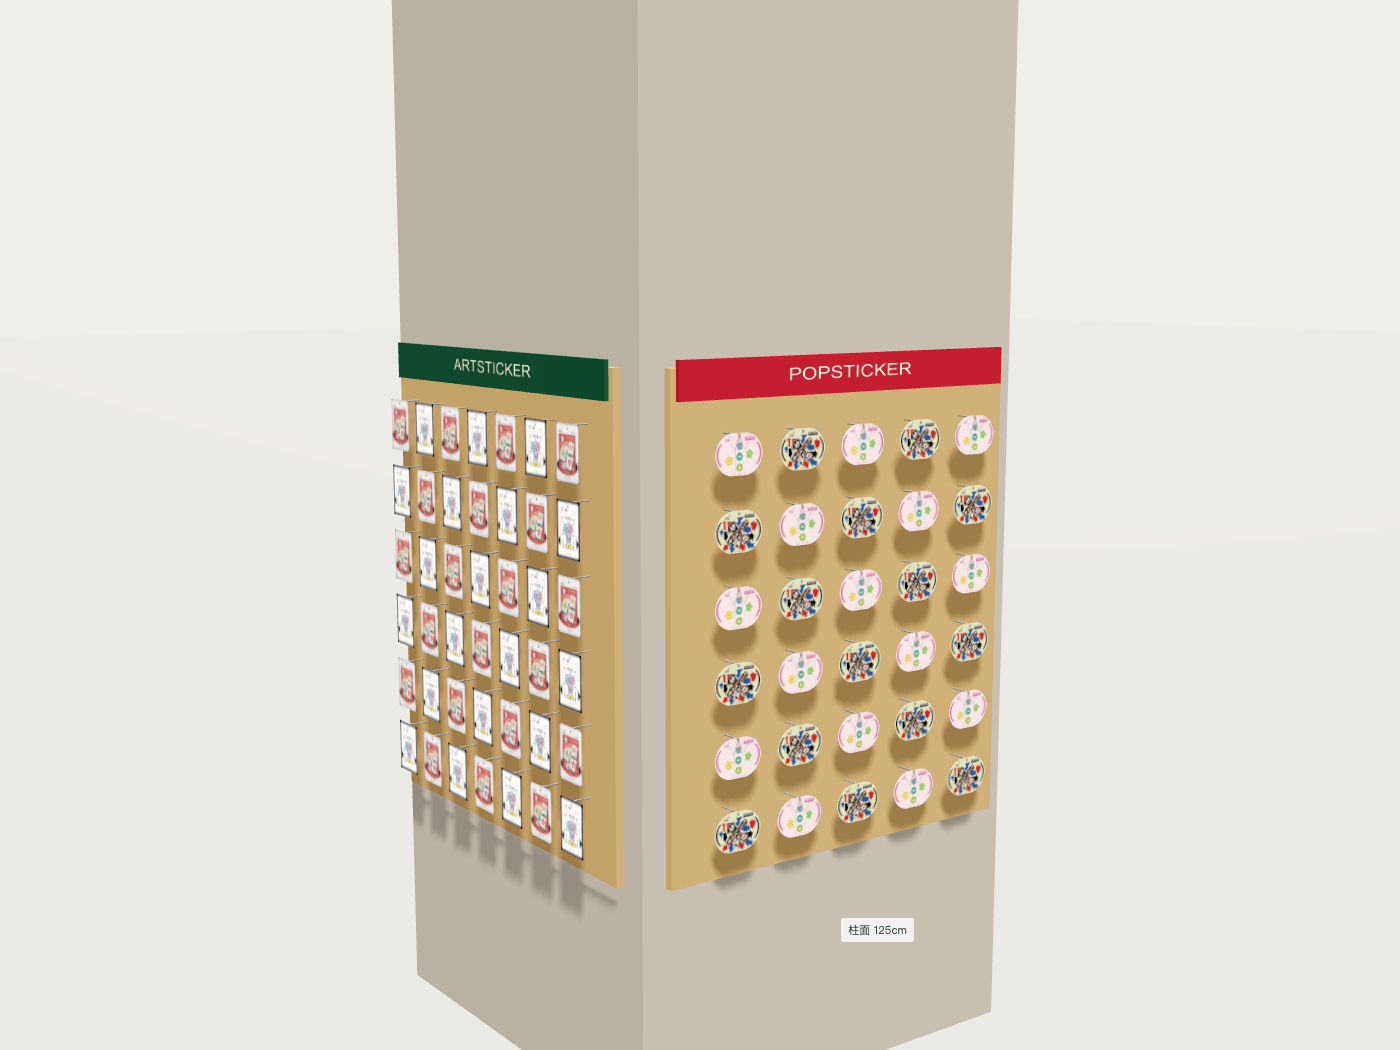
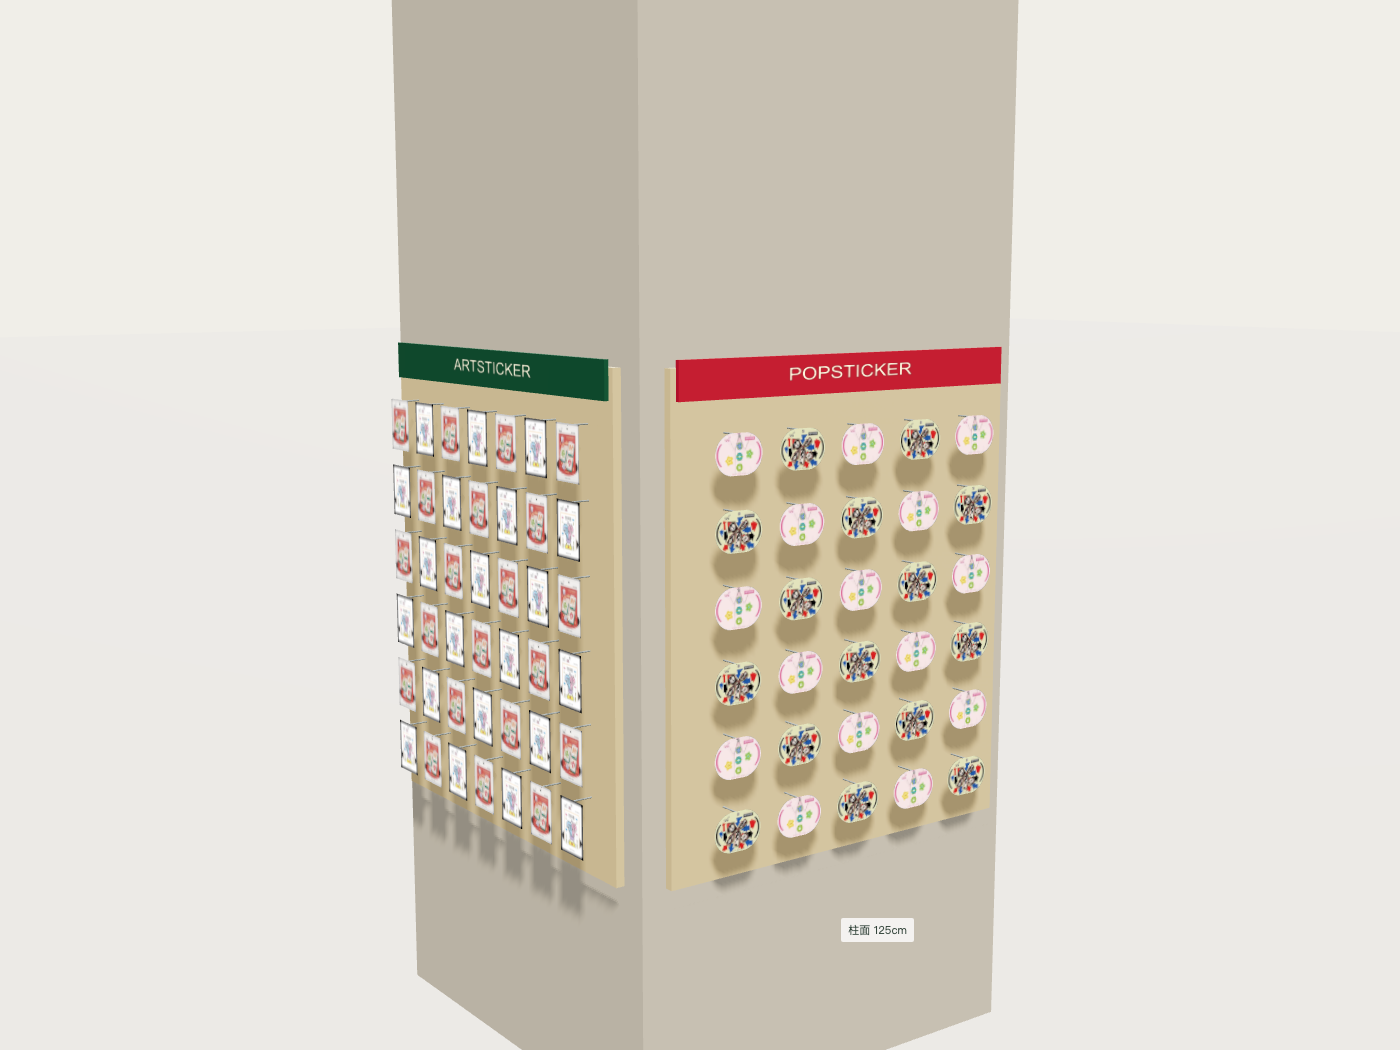
Distinguish plywood and paper column materials in comparison

Changed region(s): [[0.2764, 0.3352, 0.7371, 0.8533]]

diff --git a/site/demos/niko-comparison/viewer.html b/site/demos/niko-comparison/viewer.html
@@ -8,7 +8,7 @@ const floor=new THREE.Mesh(new THREE.PlaneGeometry(100,100),new THREE.MeshStanda
 const controls=new OrbitControls(camera,renderer.domElement);controls.enableDamping=true;controls.maxPolarAngle=Math.PI/2-.02;controls.minDistance=1.3;controls.maxDistance=15;
 const headerGroup=new THREE.Group();scene.add(headerGroup);function header(text,w,h,pos,rot){const c=document.createElement('canvas');c.width=1024;c.height=128;const ctx=c.getContext('2d');ctx.font='500 70px Arial';ctx.textAlign='center';ctx.textBaseline='middle';ctx.fillStyle='#fff8df';ctx.fillText(text,512,64);const t=new THREE.CanvasTexture(c);t.colorSpace=THREE.SRGBColorSpace;const m=new THREE.Mesh(new THREE.PlaneGeometry(w,h),new THREE.MeshBasicMaterial({map:t,transparent:true,toneMapped:false,depthWrite:false}));m.position.set(...pos);m.rotation.y=rot;headerGroup.add(m);}header('POPSTICKER',.95,.08,[2.425,1.92,.174],0);header('ARTSTICKER',.95,.08,[1.75,1.92,-.5],-Math.PI/2);
 const iscol=o=>o.name.startsWith('column_')||o.name.startsWith('existing_column');const isHuman=o=>o.name.startsWith('human_');
-function tint(o){if(o.material.map){o.material=new THREE.MeshBasicMaterial({map:o.material.map,side:o.material.side,toneMapped:false});return;}o.geometry.computeVertexNormals();let n=o.name,c='#c6a16b';if(n.startsWith('pallet_'))c=n.includes('top')?'#8c9b90':n.includes('foot')||n.includes('riser')?'#4a504b':'#a77948';if(n.startsWith('existing_column'))c='#bab5aa';if(n.startsWith('human_'))c='#8a9998';if(n.startsWith('pipe_')||n.includes('hook'))c='#8c989e';if(n.includes('red_header'))c='#b02838';if(n.includes('green_header'))c='#215740';o.material=new THREE.MeshStandardMaterial({color:c,roughness:n.startsWith('pipe_')?.35:.9,metalness:n.startsWith('pipe_')?.2:0,flatShading:!isHuman(o)});}
+function tint(o){if(o.material.map){o.material=new THREE.MeshBasicMaterial({map:o.material.map,side:o.material.side,toneMapped:false});return;}o.geometry.computeVertexNormals();let n=o.name,c='#c6a16b';if(n.startsWith('pallet_'))c=n.includes('top')?'#8c9b90':n.includes('foot')||n.includes('riser')?'#4a504b':'#a77948';if(n.startsWith('column_')&&n.includes('panel'))c=scheme==='pipe'?'#ac7e4e':'#d0bb91';if(n.startsWith('existing_column'))c='#bab5aa';if(n.startsWith('human_'))c='#8a9998';if(n.startsWith('pipe_')||n.includes('hook'))c='#8c989e';if(n.includes('red_header'))c='#b02838';if(n.includes('green_header'))c='#215740';o.material=new THREE.MeshStandardMaterial({color:c,roughness:n.startsWith('pipe_')?.35:.9,metalness:n.startsWith('pipe_')?.2:0,flatShading:!isHuman(o)});}
 function update(){headerGroup.visible=zone!=='island';if(model)model.traverse(o=>{if(o.isMesh)o.visible=iscol(o)?zone!=='island':isHuman(o)?person&&zone!=='column':zone!=='column';});document.querySelector('#state').innerHTML='<strong>'+(scheme==='pipe'?'A · 水管吊海洋板':'B · 纯纸板')+'</strong>'+({island:'中岛 · 叉车板底座高 67cm',column:'柱子区 · 每面宽 125cm',overall:'中岛 + 柱子区'})[zone];document.querySelectorAll('[data-zone]').forEach(b=>b.classList.toggle('active',b.dataset.zone===zone));document.querySelector('#person').hidden=zone==='column'||!person;document.querySelector('#base').hidden=zone==='column';document.querySelector('#column').hidden=zone==='island';}
 function setView(z=zone,a=angle){zone=z;angle=a;let target,pos;if(z==='island'){target=[-.23,1.03,0];pos=a==='front'?[-.23,1.25,5.8]:a==='back'?[-.23,1.25,-5.8]:[2.8,2.35,4.3];}else if(z==='column'){target=[2.4,1.45,-.45];pos=a==='front'?[2.425,1.6,4.6]:a==='back'?[-2.5,1.6,-.5]:[-.5,2.2,3.5];}else{target=[.85,1.3,-.2];pos=a==='back'?[6.3,3.4,-6.5]:[-4,3.5,7.5];}controls.target.set(...target);camera.position.set(...pos);controls.update();update();}window.setView=setView;window.addEventListener('message',e=>{if(e.origin===location.origin&&e.data?.type==='niko-zone'&&['island','column','overall'].includes(e.data.zone))setView(e.data.zone,'angle');});
 new GLTFLoader().load('models/'+scheme+'.glb',g=>{model=g.scene;model.traverse(o=>{if(o.isMesh){o.castShadow=true;o.receiveShadow=true;tint(o);}});scene.add(model);setView();document.querySelector('#busy').remove();window.ready=true;},undefined,e=>{document.querySelector('#busy').textContent='模型未能载入：'+e.message;});
